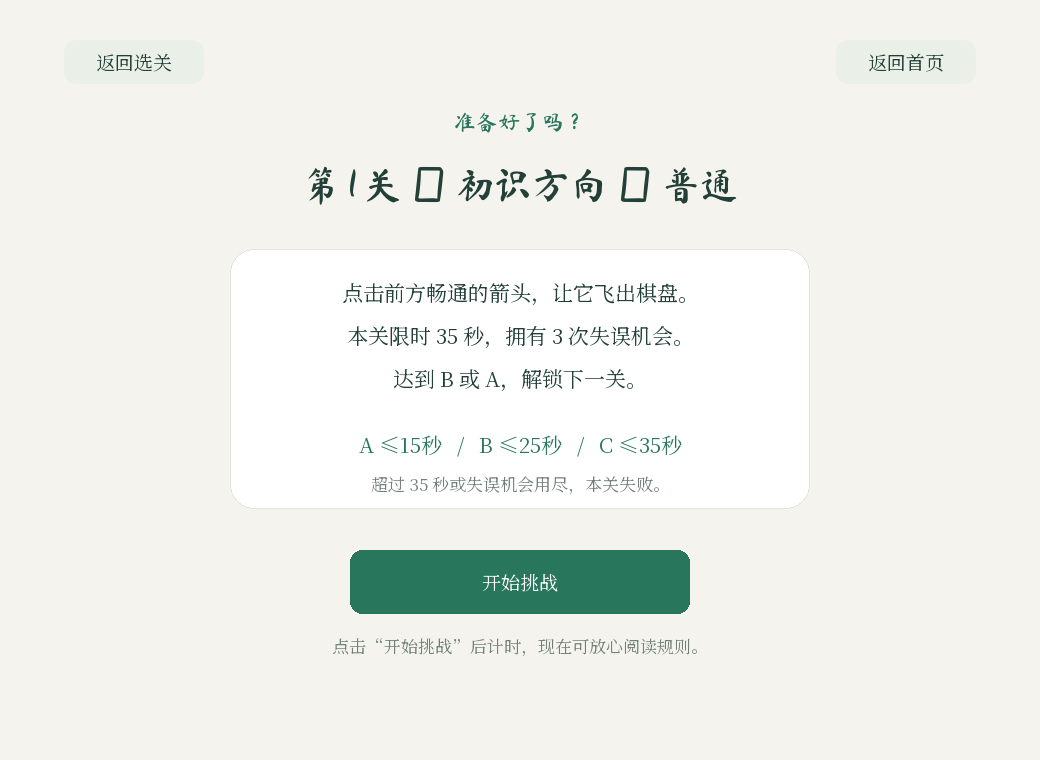
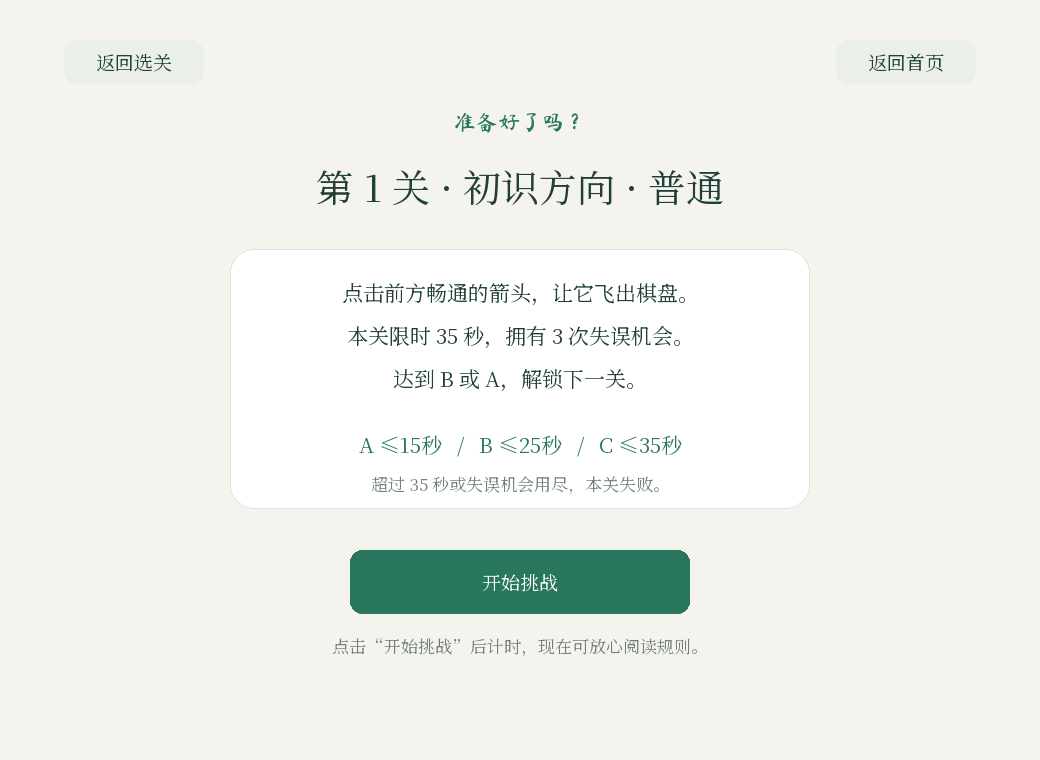
fix: remove unsupported separator glyph boxes

Changed region(s): [[0.2769, 0.2118, 0.7077, 0.2724]]

diff --git a/main.py b/main.py
@@ -439,7 +439,7 @@ class App:
         rules = level_rules(level)
         self.text('准备好了吗？', (cx,121), 22, GREEN, True, display=True)
         self.text(f'第 {self.game.level_index+1} 关 · {level["name"]} · {rules["label"]}',
-                  (cx,185), 38, INK, True, display=True)
+                  (cx,185), 38, INK, True)
         self.panel((230,249,580,260), 'white', LINE, 24)
         for i, line in enumerate([f'点击前方畅通的箭头，让它飞出棋盘。',
                                   f'本关限时 {rules["time_limit"]:.0f} 秒，拥有 3 次失误机会。',

diff --git a/docs/TEST_REPORT.md b/docs/TEST_REPORT.md
@@ -81,7 +81,7 @@
 
 ## 字体更新
 
-根据用户提供的 Google Fonts 链接，程序现在使用 `assets/MaShanZheng-Regular.ttf`（Ma Shan Zheng）绘制标题，使用 `assets/NotoSerifSC-Regular.ttf`（Noto Serif SC）绘制正文和按钮。缺少资源时依次回退到随包 Noto Sans CJK 和系统中文字体；UI 测试确认两种用户指定字体随包存在且被优先使用。
+根据用户提供的 Google Fonts 链接，程序现在使用 `assets/MaShanZheng-Regular.ttf`（Ma Shan Zheng）绘制主标题，使用 `assets/NotoSerifSC-Regular.ttf`（Noto Serif SC）绘制正文、按钮和含 `·` 分隔符的关卡信息行。这样可避免 Ma Shan Zheng 缺少分隔符字形而出现方框；缺少资源时依次回退到随包 Noto Sans CJK 和系统中文字体。
 
 ## 当前关卡自动求解
 
